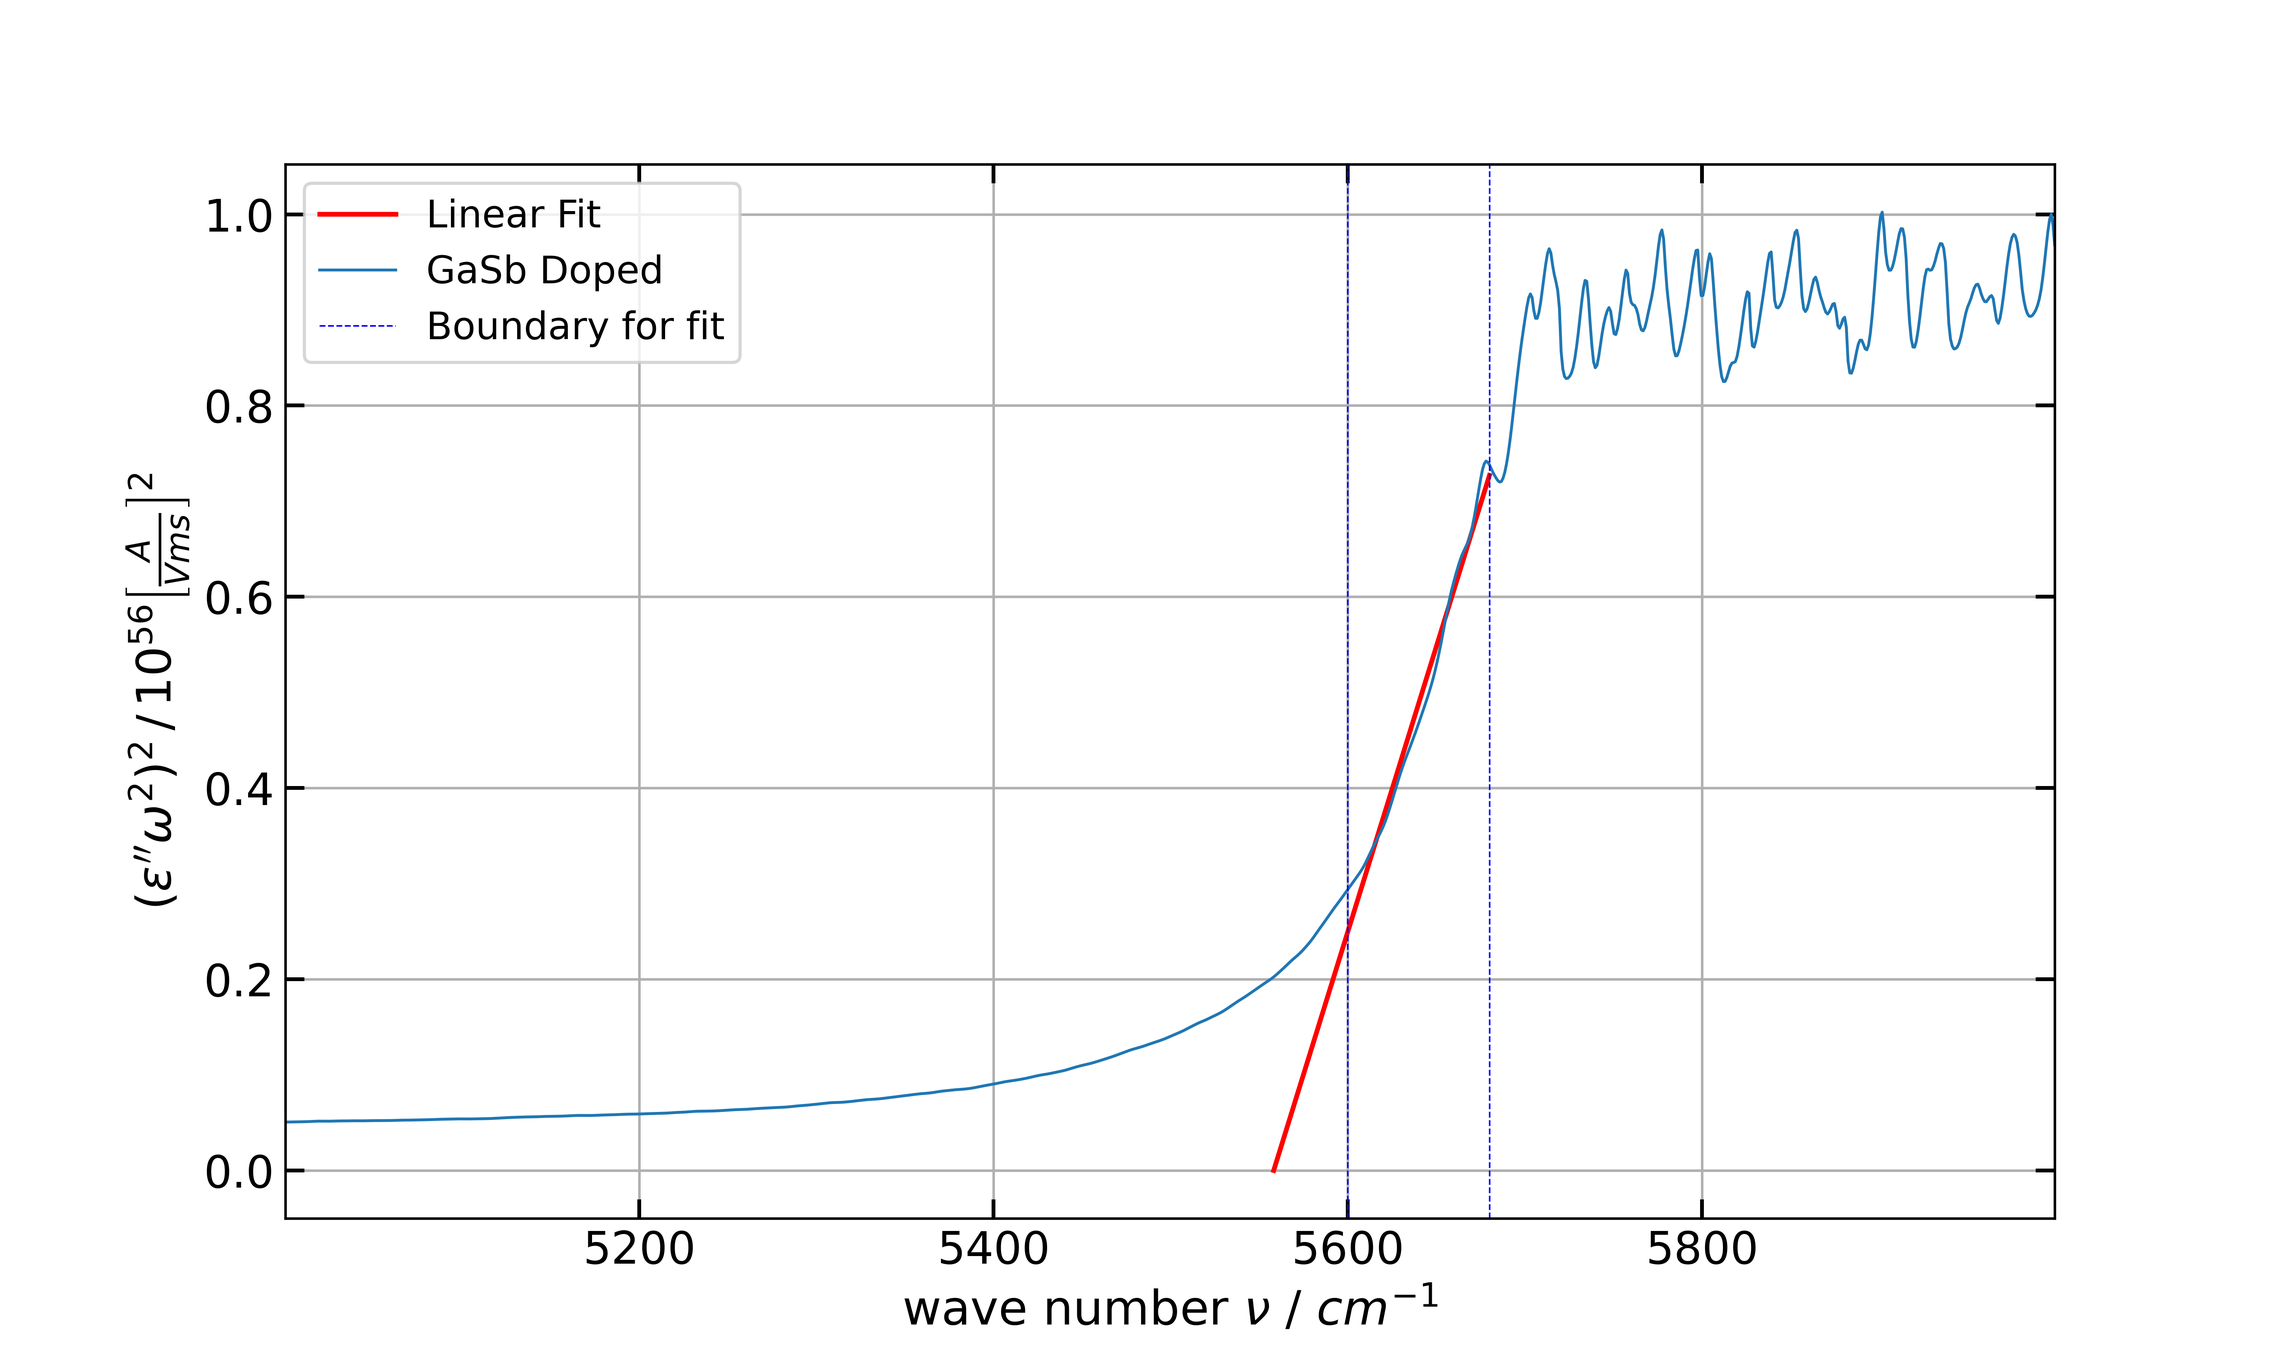
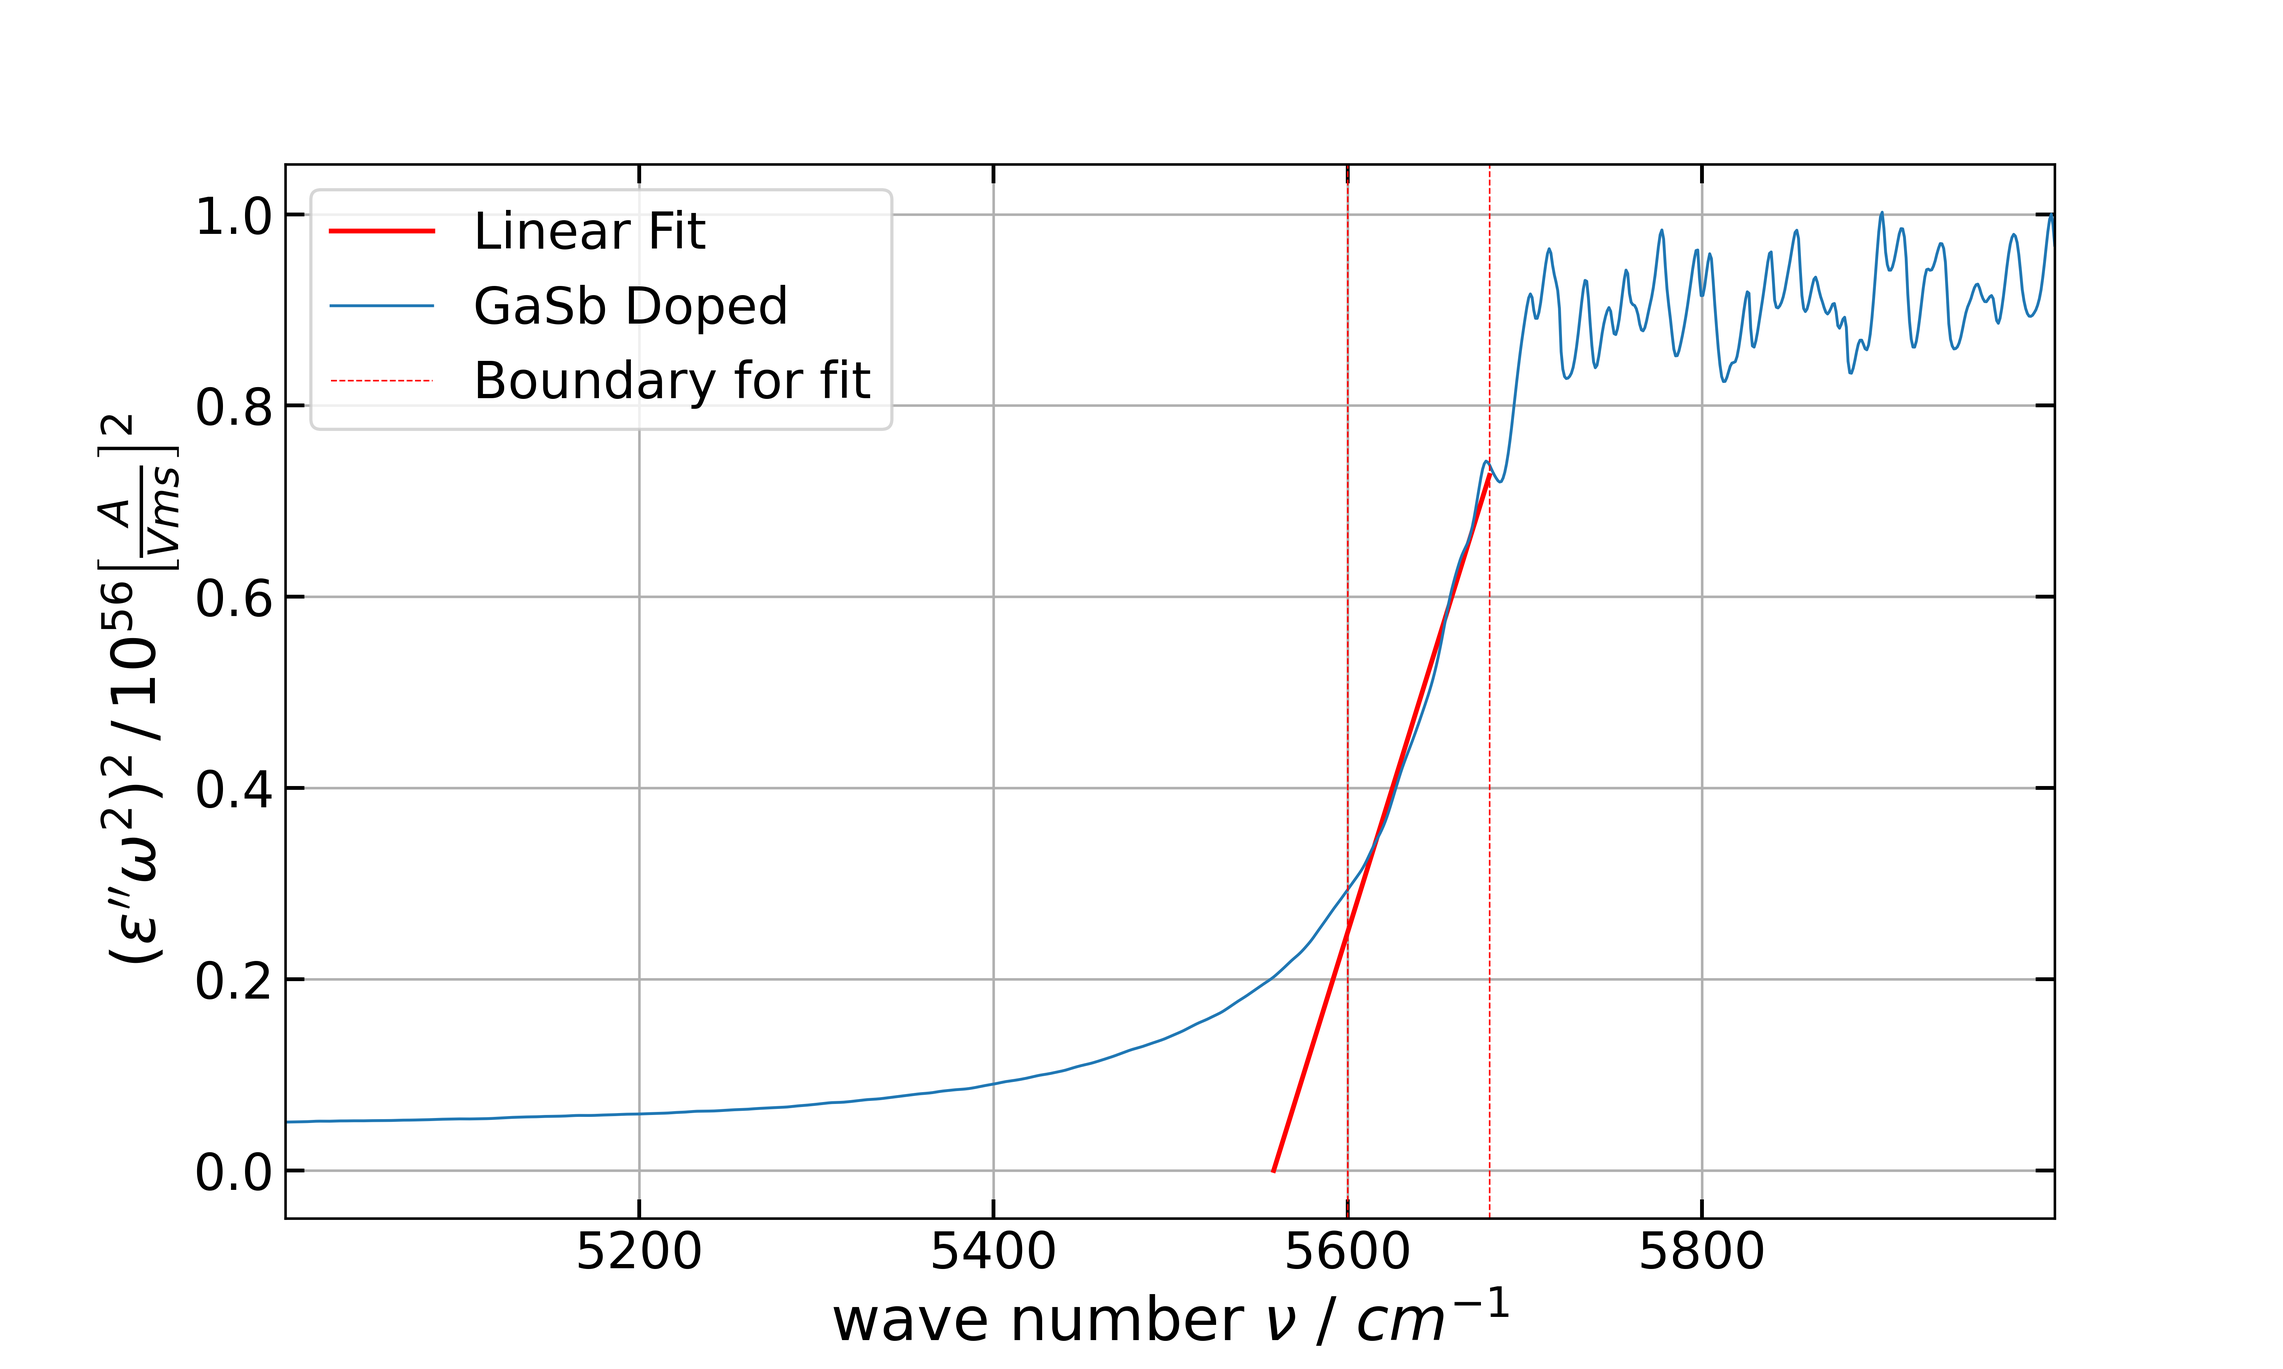
bilderVerschönern

diff --git a/SolidStateOptics/exp4.py b/SolidStateOptics/exp4.py
@@ -115,7 +115,7 @@ def plot_the_betas(title="foo", glättwert=1):
         beta = []
         for i in calculate_nu_beta_and_R(bügeln(reflection, glättwert), bügeln(transmission, glättwert), d):
             beta.append([i[0], i[1]/100])
-        plot_data(beta, label=label)
+        plot_data(bügeln(beta, 0.05), label=label)
         plt.xlabel(r'wave number $\nu$ / ' + r'$cm^{-1}$')
         plt.ylabel('beta')
 
@@ -134,7 +134,7 @@ def plot_the_kappas(title="foo", glättwert = 1):
         kappa = [[i[0], i[1] * 10**3] for i in kappa]
         
         
-        plot_data(kappa, label=label)
+        plot_data(bügeln(kappa, 0.05), label=label)
 
     plt.xlabel(r'wave number $\nu$ / ' + r'$cm^{-1}$')
     plt.ylabel(r'extinction coefficient $\kappa$ / ' + r'$ 10^{-3}\, cm^{-1}$')
@@ -173,7 +173,7 @@ def plotKomischeFunktion(reflection, transmission, k_min, k_max, k_min_regressio
     x_vals = np.linspace(x_intercept, k_max_regression, 10)  # Generate x values for the line
     y_vals = steig * x_vals + y_intercept       # Calculate corresponding y values
     plt.plot(x_vals, y_vals*10**-56, label='Linear Fit', color='red', linestyle='-')  # Plot the line
-    plt.legend(fontsize=12)
+    plt.legend(fontsize=18)
     
     # Fehler LinReg Teil
     steig1, x_intercept1, y_intercept1 = linear_regression(k_chopper(komischeFunktion,
@@ -191,9 +191,9 @@ def plotKomischeFunktion(reflection, transmission, k_min, k_max, k_min_regressio
     komischeFunktion56 = [[point[0], point[1] * 10**-56] for point in komischeFunktion]
     plot_data(k_chopper(komischeFunktion56,k_min, k_max), label=title)
     
-    plt.axvline(x=k_min_regression, color='blue', linestyle='--', label='Boundary for fit', linewidth=0.5)
-    plt.legend(fontsize=12)
-    plt.axvline(x=k_max_regression, color='blue', linestyle='--', linewidth =0.5)
+    plt.axvline(x=k_min_regression, color='red', linestyle='--', label='Boundary for fit', linewidth=0.5)
+    plt.legend(fontsize=16)
+    plt.axvline(x=k_max_regression, color='red', linestyle='--', linewidth =0.5)
     
     
     steigKorr = steig/factor
@@ -205,8 +205,11 @@ def plotKomischeFunktion(reflection, transmission, k_min, k_max, k_min_regressio
     
     writeLatexMacro('pulseMatrixElement_' + title.replace(' ','_'), pulseMatrixElement, r'$m\, kg s^{-1}$', pulseMatrixElement_fehler)
     
-    plt.xlabel(r'wave number $\nu$ / ' + r'$cm^{-1}$')   
-    plt.ylabel(r'($\epsilon ^{\prime \prime} \omega^2)^2\, / \, 10^{56} \left[\frac{A}{Vms}\right]^2$') 
+    plt.xticks(fontsize=16)
+    plt.yticks(fontsize=16)
+    
+    plt.xlabel(r'wave number $\nu$ / ' + r'$cm^{-1}$', fontsize=19)   
+    plt.ylabel(r'($\epsilon ^{\prime \prime} \omega^2)^2\, / \, 10^{56} \left[\frac{A}{Vms}\right]^2$', fontsize=19) 
     save_and_open(filename=title)
     
     
@@ -241,7 +244,8 @@ def calculate_komische_indirect_function(reflection, transmission, d):
     return komischeFunktion
 
 def plotKomischeIndirectFunction(reflection, transmission, d, k_min, k_max, k1_min_regression, 
-                                 k1_max_regression, k2_min_regression, k2_max_regression, glättwert=0.01, title="foo"):
+                                 k1_max_regression, k2_min_regression, k2_max_regression, glättwert=0.01, title="foo",
+                                 varFürFehler=15):
     komischeIndirFunktion = bügeln(calculate_komische_indirect_function(reflection, transmission, d), glättwert)
     
     
@@ -254,6 +258,17 @@ def plotKomischeIndirectFunction(reflection, transmission, d, k_min, k_max, k1_m
     plt.axvline(x=k1_min_regression, color='purple', linestyle='--', label='', linewidth=1)
     plt.axvline(x=k1_max_regression, color='purple', linestyle='--', linewidth =1)
     plt.legend()
+    steigVerschoben1, x_interceptVerschoben1, y_interceptVerschoben1 = linear_regression(k_chopper(komischeIndirFunktion,
+                                                k_min=k1_min_regression - varFürFehler, k_max=k1_max_regression + varFürFehler))
+    steigVerschoben2, x_interceptVerschoben2, y_interceptVerschoben2 = linear_regression(k_chopper(komischeIndirFunktion,
+                                                k_min=k1_min_regression - varFürFehler, k_max=k1_max_regression - varFürFehler))
+    steigVerschoben3, x_interceptVerschoben3, y_interceptVerschoben3 = linear_regression(k_chopper(komischeIndirFunktion,
+                                                k_min=k1_min_regression + varFürFehler, k_max=k1_max_regression + varFürFehler))
+    steigVerschoben4, x_interceptVerschoben4, y_interceptVerschoben4 = linear_regression(k_chopper(komischeIndirFunktion,
+                                                k_min=k1_min_regression + varFürFehler, k_max=k1_max_regression - varFürFehler))
+    x_intercept_fehler1 = max(abs(x_interceptVerschoben1-x_intercept1), abs(x_interceptVerschoben2-x_intercept1),
+                             abs(x_interceptVerschoben3-x_intercept1), abs(x_interceptVerschoben4-x_intercept1))
+    
     
     
     #Lin Reg Teil 2
@@ -265,11 +280,27 @@ def plotKomischeIndirectFunction(reflection, transmission, d, k_min, k_max, k1_m
     plt.axvline(x=k2_min_regression, color='red', linestyle='--', linewidth=1)
     plt.axvline(x=k2_max_regression, color='red', linestyle='--', linewidth =1)
     plt.legend()
+    steig2Verschoben1, x_intercept2Verschoben1, y_intercept2Verschoben1 = linear_regression(k_chopper(komischeIndirFunktion,
+                                                k_min=k2_min_regression - varFürFehler, k_max=k2_max_regression + varFürFehler))
+    steig2Verschoben2, x_intercept2Verschoben2, y_intercept2Verschoben2 = linear_regression(k_chopper(komischeIndirFunktion,
+                                                k_min=k2_min_regression - varFürFehler, k_max=k2_max_regression - varFürFehler))
+    steig2Verschoben3, x_intercept2Verschoben3, y_intercept2Verschoben3 = linear_regression(k_chopper(komischeIndirFunktion,
+                                                k_min=k2_min_regression + varFürFehler, k_max=k2_max_regression + varFürFehler))
+    steig2Verschoben4, x_intercept2Verschoben4, y_intercept2Verschoben4 = linear_regression(k_chopper(komischeIndirFunktion,
+                                                k_min=k2_min_regression + varFürFehler, k_max=k2_max_regression - varFürFehler))
+    x_intercept_fehler2 = max(abs(x_interceptVerschoben1-x_intercept1), abs(x_interceptVerschoben2-x_intercept1),
+                             abs(x_interceptVerschoben3-x_intercept1), abs(x_interceptVerschoben4-x_intercept1))
+
+    x_fehler_gesamt = (x_intercept_fehler1 + x_intercept_fehler2) /2
     
-    bandgap = (x_intercept1+x_intercept2)/2*100*c*hbar/e*2*np.pi
-    writeLatexMacro("bandgap_" + title, bandgap, 'eV')
+    bandgap = (x_intercept1 + x_intercept2)/2*100*c*hbar/e*2*np.pi
+    bandgap_fehler = x_fehler_gesamt *100*c*hbar/e*2*np.pi
+    
     hquerOMEGA = (x_intercept2-x_intercept1)/2*100*c*hbar/e*2*np.pi
-    writeLatexMacro("hquerOMEGA_" + title, hquerOMEGA, 'eV')
+    hquerOMEGA_fehler = x_fehler_gesamt*100*c*hbar/e*2*np.pi
+    
+    writeLatexMacro("bandgap_" + title, bandgap, 'eV', bandgap_fehler)
+    writeLatexMacro("hquerOMEGA_" + title, hquerOMEGA, 'eV', hquerOMEGA_fehler) # ist der gleiche fehler wie für die bandgap
     
     plt.legend()
     
@@ -304,9 +335,9 @@ def plot_transmissions(glättwert=0.01):
     save_and_open("Low_Res_Transmissions")
 
 
-plotKomischeIndirectFunction(reflectionSiUnDo, transmissionSiUnDo, d=530*10**-6, k_min=7500, k_max=11000,
-                              k1_min_regression=8450, k1_max_regression=9100, k2_min_regression=9450, k2_max_regression=10200,
-                              glättwert=0.01, title="Si_Undoped")
+#plotKomischeIndirectFunction(reflectionSiUnDo, transmissionSiUnDo, d=530*10**-6, k_min=7500, k_max=11000,
+#                              k1_min_regression=8450, k1_max_regression=9100, k2_min_regression=9450, k2_max_regression=10200,
+#                              glättwert=0.01, title="Si_Undoped")
 
 
 #plot_the_kappas(glättwert=0.9, title="kappa")
@@ -316,9 +347,9 @@ plotKomischeIndirectFunction(reflectionSiUnDo, transmissionSiUnDo, d=530*10**-6,
 #plot_the_ns(0.005)
 
 #Die macht keinen Sinn, ist indirekt!! plotKomischeFunktion(reflectionSiUnDo, transmissionSiUnDo, 9000, 11000, 10050, 10250, samplesOhneSiUn[0][3], glättwert=0.1, title="Si Undoped")
-plotKomischeFunktion(reflectionGaSbDo, transmissionGaSbDo, 5000, 6000, 5600, 5680, samplesOhneSiUn[1][3], factor_GaSb ,glättwert=0.1, title="GaSb Doped")
-plotKomischeFunktion(reflectionGaAsUnDo, transmissionGaAsUnDo, 11000, 11400, 11230, 11280, samplesOhneSiUn[2][3], factor_GaAs, glättwert=0.1, title="GaAs Undoped")
-plotKomischeFunktion(reflectionGaAsDo, transmissionGaAsDo, 10500, 12000, 11120, 11200, samplesOhneSiUn[3][3],factor_GaAs, glättwert=0.03, title="GaAs Doped")
+#plotKomischeFunktion(reflectionGaSbDo, transmissionGaSbDo, 5000, 6000, 5600, 5680, samplesOhneSiUn[1][3], factor_GaSb ,glättwert=0.1, title="GaSb Doped")
+#plotKomischeFunktion(reflectionGaAsUnDo, transmissionGaAsUnDo, 11000, 11400, 11230, 11280, samplesOhneSiUn[2][3], factor_GaAs, glättwert=0.1, title="GaAs Undoped")
+#plotKomischeFunktion(reflectionGaAsDo, transmissionGaAsDo, 10500, 12000, 11120, 11200, samplesOhneSiUn[3][3],factor_GaAs, glättwert=0.03, title="GaAs Doped")
 
 
 #plot_reflections(glättwert=0.02)

diff --git a/SolidStateOptics/SignaltoNoise.py b/SolidStateOptics/SignaltoNoise.py
@@ -5,6 +5,7 @@ from scipy.stats import linregress
 import os, sys
 sys.path.insert(1, "/".join(os.path.realpath(__file__).split("/")[0:-2]))
 from macroswriter import writeLatexMacro
+from matplotlib.ticker import ScalarFormatter
 
 filepathNormalizedN10 = './SolidStateOptics/RawData/StoN/StoN_res4_N10_normalized.DPT'
 filepathNormalizedN20 = './SolidStateOptics/RawData/StoN/StoN_res4_N20_normalized.DPT'
@@ -35,9 +36,11 @@ def plot_data(data, label=''):
     plt.ylim(yMin, yMax)
 
 def save_and_open(filename="SignalToNoise", title=""):
-    plt.legend(fontsize=12)  # Legende vergrößert
-    plt.xlabel(r'wave number / $cm^{-1}$')  # x-Achse im LaTeX-Stil benannt
-    plt.ylabel(r'transmission $T$')  # y-Achse im LaTeX-Stil benannt
+    plt.legend(fontsize=16, loc='upper center')  # Legende vergrößert und in der oberen Mitte positioniert
+    plt.xticks(fontsize=16)
+    plt.yticks(fontsize=16)
+    plt.xlabel(r'wave number / $cm^{-1}$', fontsize=18)  # x-Achse im LaTeX-Stil benannt
+    plt.ylabel(r'transmission $T$', fontsize=18)  # y-Achse im LaTeX-Stil benannt
 
     # Inset-Plot hinzufügen
     ax = plt.gca()
@@ -79,6 +82,7 @@ def save_and_open(filename="SignalToNoise", title=""):
     #inset_ax.set_ylabel(r'transmission $T$', fontsize=10)  # Beschriftung für die linke y-Achse
     #inset_ax_right.set_ylabel(r'transmission $T$', fontsize=10)  # Gleiche Beschriftung für die rechte y-Achse
 
+    
     
     plt.savefig('.\\Paper\\Images\\'+filename + '.png', dpi=600)
     from PIL import Image
@@ -159,18 +163,26 @@ def plotSNR(datasets, x_min, x_max):
 
     # Plot
     plt.figure(figsize=(8, 5))
-    plt.errorbar(x_numeric, y_numeric, yerr=y_errors, fmt='o', color='blue', capsize=2.5, label='SNR')
-    plt.plot(x_numeric, np.exp(regression_line), color='red', linestyle='--', label=f'linear regression')
+    plt.errorbar(x_numeric, y_numeric*10**-3, yerr=y_errors*10**-3, fmt='o', color='blue', capsize=2.5, label='SNR')
+    plt.plot(x_numeric, np.exp(regression_line)*10**-3, color='red', linestyle='--', label=f'linear regression')
     plt.xscale('log')  # Logarithmische Skalierung der x-Achse
     plt.yscale('log')  # Logarithmische Skalierung der y-Achse
-    plt.xlabel('Number of Scans / N')
-    plt.ylabel('Signal to Noise Ratio (SNR)')
+
+    # Manually set y-axis ticks and labels
+    y_ticks = [3, 4,6,10]  # Example tick values
+    plt.gca().set_yticks(y_ticks)
+    plt.gca().set_yticklabels(y_ticks)  # Format as plain numbers
+
+    plt.xlabel('Number of Scans / N', fontsize=16)
+    plt.ylabel(r'Signal to Noise Ratio (SNR) / $10^{3}$', fontsize=16)
+    plt.xticks(fontsize=16)
+    plt.yticks(fontsize=16)
     #plt.title('Log-Log Plot of Signal-to-Noise Ratio with Errors')
     plt.grid(True, which='both', linestyle='--', linewidth=0.5)
     plt.tick_params(axis='both', which='major', length=6, width=1.3)  # Größere Tick-Marker für Hauptticks
     plt.tick_params(axis='both', which='minor', length=4, width=0.9)
     plt.tick_params(axis='both', direction='in', which='both', top=True, right=True)  # Ticks an allen Seiten nach innen
-    plt.legend()
+    plt.legend(fontsize=14)
 
     # Exponenten und Fehler ausgeben und in LaTeX-Makro schreiben
     #print(f"Exponent (x) from Log-Log Fit: {slope}")
@@ -181,7 +193,7 @@ def plotSNR(datasets, x_min, x_max):
     Image.open(".\\Paper\\Images\\"+'STNLog' + ".png").show()
     plt.clf()
 
-
+'''
 # Plot für alle Datensätze
 plot_data(N10, label='N = 10')
 #plot_data(N20)
@@ -189,7 +201,7 @@ plot_data(N10, label='N = 10')
 #plot_data(N75)
 plot_data(N100, label='N = 100')
 save_and_open()
-
+'''
 
 plotSNR(datasets, x_min, x_max)
 #save_and_open()

diff --git a/Paper/macros.tex b/Paper/macros.tex
@@ -1,15 +1,10 @@
-\newcommand{\bandgapSiUndoped}{\left(1.066\right) \cdot 10^{0}\,\text{eV}}
-\newcommand{\hquerOMEGASiUndoped}{\left(5.200\right) \cdot 10^{-2}\,\text{eV}}
-\newcommand{\bandgapGaSbDoped}{\left(6.891 \pm 0.021\right) \cdot 10^{-1}\,\text{eV}}
-\newcommand{\pulseMatrixElementGaSbDoped}{\left(4.55 \pm 0.21\right) \cdot 10^{-25}\,\text{$m\, kg s^{-1}$}}
 \newcommand{\bandgapGaAsUndoped}{\left(1.3892 \pm 0.0044\right) \cdot 10^{0}\,\text{eV}}
 \newcommand{\pulseMatrixElementGaAsUndoped}{\left(6.48 \pm 0.63\right) \cdot 10^{-25}\,\text{$m\, kg s^{-1}$}}
 \newcommand{\bandgapGaAsDoped}{\left(1.3728 \pm 0.0015\right) \cdot 10^{0}\,\text{eV}}
 \newcommand{\pulseMatrixElementGaAsDoped}{\left(6.17 \pm 0.19\right) \cdot 10^{-25}\,\text{$m\, kg s^{-1}$}}
+\newcommand{\bandgapSiUndoped}{\left(1.0665 \pm 0.0017\right) \cdot 10^{0}\,\text{eV}}
+\newcommand{\hquerOMEGASiUndoped}{\left(5.20 \pm 0.17\right) \cdot 10^{-2}\,\text{eV}}
+\newcommand{\bandgapGaSbDoped}{\left(6.891 \pm 0.021\right) \cdot 10^{-1}\,\text{eV}}
+\newcommand{\pulseMatrixElementGaSbDoped}{\left(4.55 \pm 0.21\right) \cdot 10^{-25}\,\text{$m\, kg s^{-1}$}}
 \newcommand{\stn}{\left(4.97 \pm 0.25\right) \cdot 10^{-1}}
-
-%Achtung ich musste eine Klammer manuell verschieben, sie wurden so generiert:
-%\newcommand{\bandgapSiUndoped}{\left(1.066\right)} \cdot 10^{0}\,\text{eV}
-%Die Klammer vor dem \cdot müsste aber eigentlich aber ganz nach hinten. 
-%Das hab ich jetzt mal manuell gemacht weil ich nicht in deinem Macroswriter rumpfuschen wollte.
-\newcommand{\test}{\left(1.3 \pm 1.0\right) \cdot 10^{0}}\,\text{sees}
+\newcommand{\NDichte}{\left(5.900\right) \cdot 10^{28}}

diff --git a/macroswriter.py b/macroswriter.py
@@ -22,10 +22,10 @@ def writeLatexMacro(macro_name:str, value:float, unit:str=None, error:float=None
         valueStr = f"{value:.{digitsIfNoError-1}f}"
 
         macro_content = f"\\newcommand{{\\{macro_name}}}{{\\left({valueStr}"
-    macro_content += f"\\right) \\cdot 10^{{{value_order}}}}}"
+    macro_content += f"\\right) \\cdot 10^{{{value_order}}}"
     if unit:
         macro_content += f"\\,\\text{{{unit}}}"
-    macro_content += f"\n"
+    macro_content += '}' + f"\n"
     
     macro_content = macro_content.replace("_","")
 
@@ -38,7 +38,7 @@ def writeLatexMacro(macro_name:str, value:float, unit:str=None, error:float=None
         lines = []
 
     # Remove existing macro with the same name
-    lines = [line for line in lines if not line.strip().startswith(f"\\newcommand{{\\{macro_name}}}")] 
+    lines = [line for line in lines if not line.strip().startswith(f"\\newcommand{{\\{macro_name.replace('_','')}}}")] 
 
     # Append the new macro
     lines.append(macro_content)
